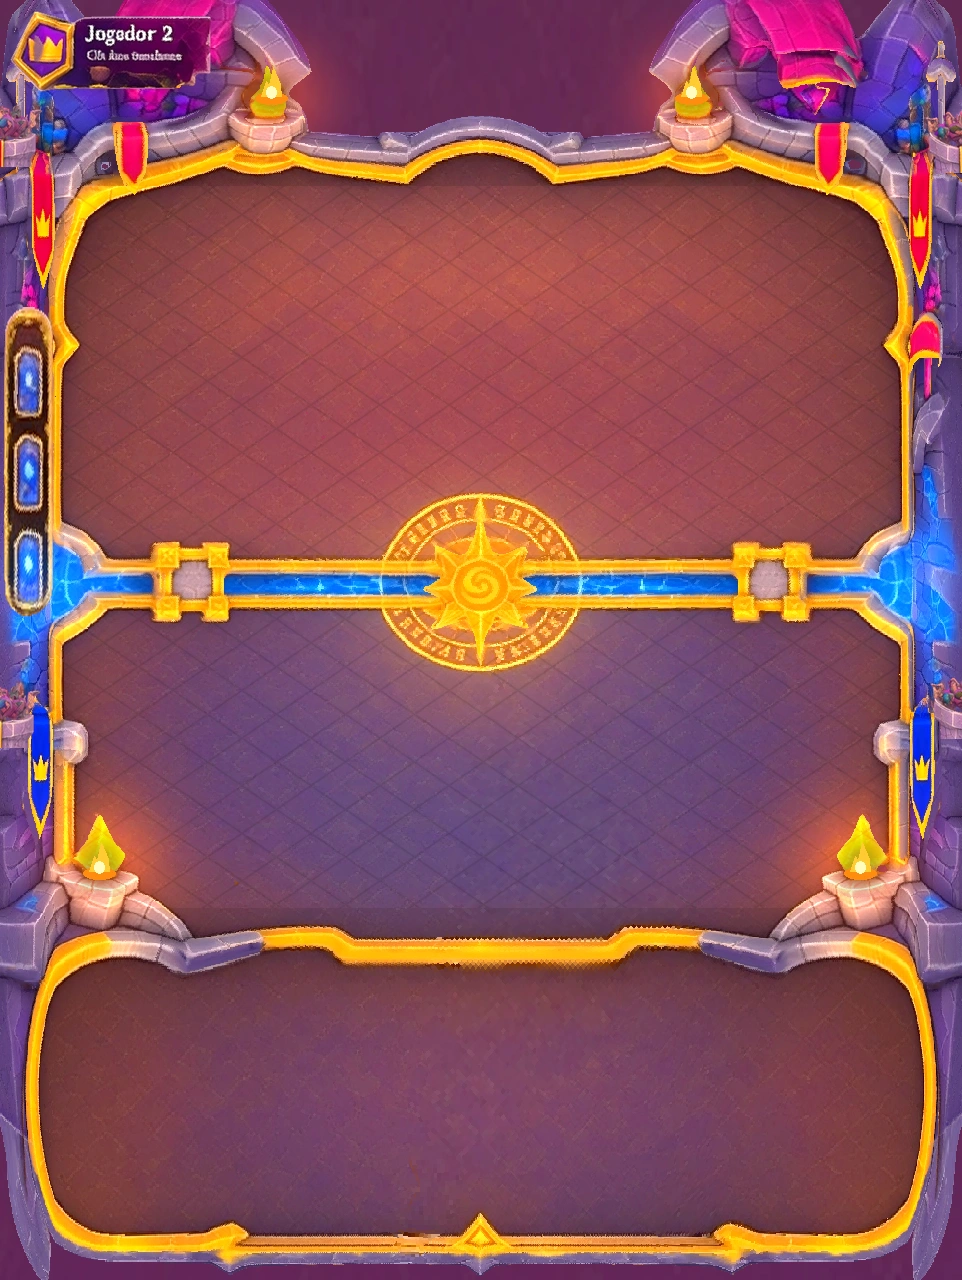
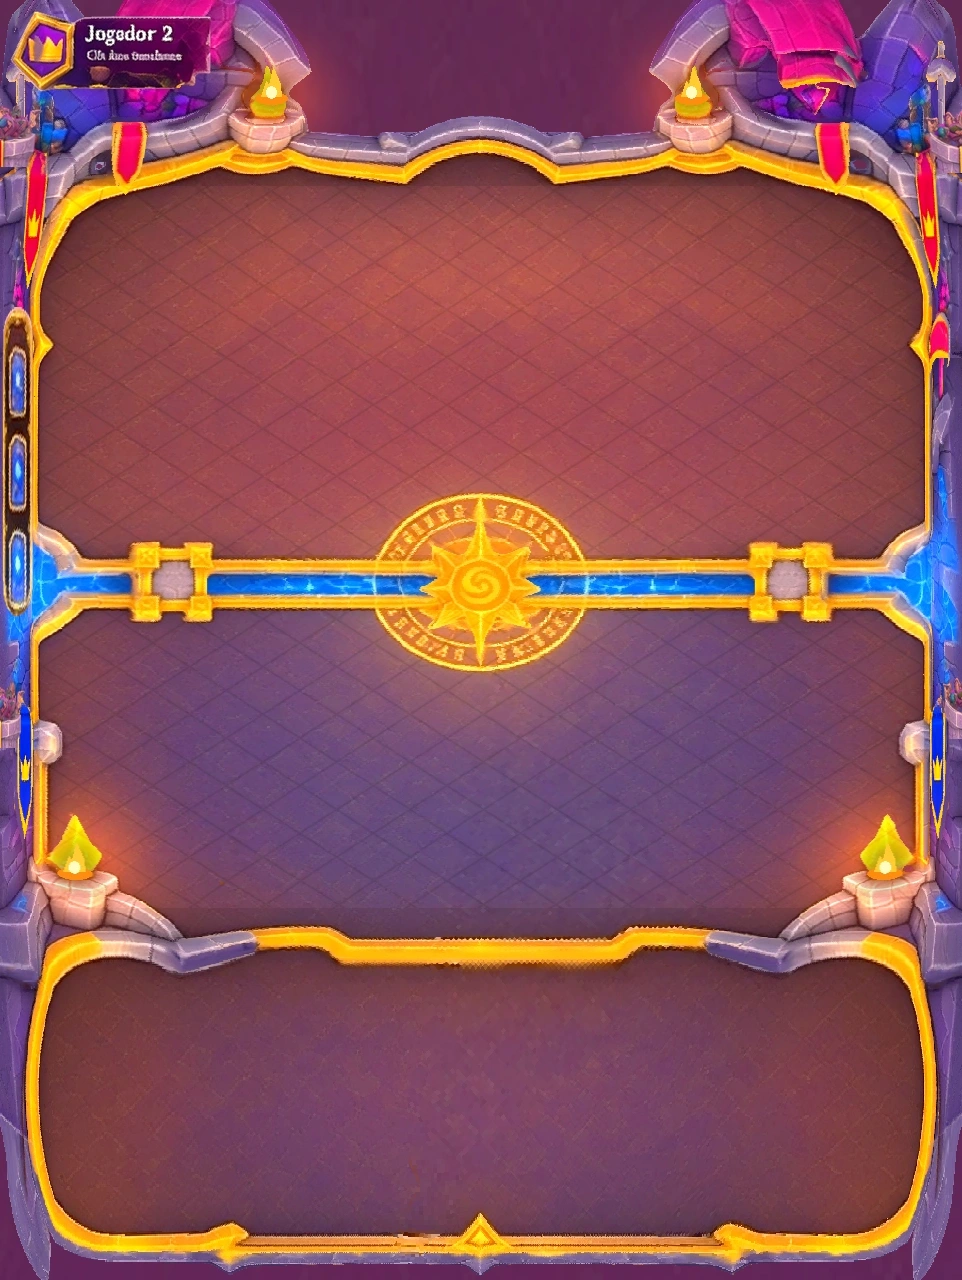
Amplia a arena e libera cartas por energia

diff --git a/README.md b/README.md
@@ -8,7 +8,7 @@ Jogo de cartas tático em **Godot 4.4.1 / GDScript**, com duelos por turnos cont
 
 Arraste uma criatura da mão para o seu lado do tabuleiro. Arraste uma criatura pronta até um inimigo para atacar. Arraste um feitiço até seu alvo; feitiços sem alvo podem ser soltos sobre o tabuleiro. Jogadas inválidas devolvem a carta sem gastar mana. Segure uma carta ou criatura para ler seus detalhes.
 
-Cada herói começa com 30 de vida. O baralho tem 30 cartas e o campo aceita até sete criaturas de cada lado. A mana começa em 1 e aumenta até 10. Criaturas normalmente aguardam o próximo turno para atacar. O botão de encerrar turno entrega a vez à IA, que usa sua própria mão e mana.
+Cada herói começa com 30 de vida. O baralho tem 30 cartas e o campo aceita até sete criaturas de cada lado. Você começa com 1 de energia e recupera 1 a cada 3 segundos de jogo, até 10. O contador abaixo da mão indica quando cada carta pode ser jogada. A IA age automaticamente a cada 12 segundos do seu tempo de jogo.
 
 O conjunto tem **41 cartas colecionáveis**: 25 criaturas e 16 feitiços, além de três fichas de invocação. Há Provocar, Escudo Divino, Investida, Ímpeto, Fúria dos Ventos, Veneno, Roubo de Vida, efeitos ao entrar e efeitos ao morrer. Ataques entre criaturas causam dano simultâneo. Feitiços de alvo, dano em área, cura, armadura, congelamento, compra e fortalecimento têm regras próprias.
 
